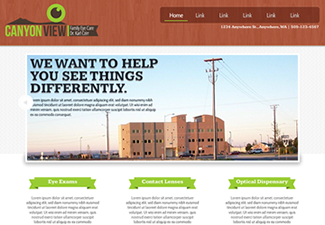
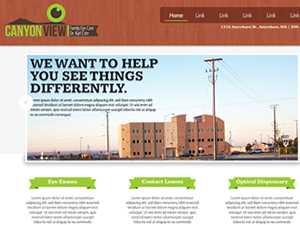
Continually adding wordpress support.

diff --git a/home.php b/home.php
@@ -1,71 +1,25 @@
-<!DOCTYPE html>
-<meta charset="utf-8">
-<meta name="viewport" content="width=device-width" />
-<html>
-  <head>
-    <link rel="stylesheet" href="style.css" title="style.css" type="text/css" media="screen" charset="utf-8">
-    <!--[if lt IE 9]><script src="js/html5.js" charset="utf-8"></script><![endif]-->
-    <script src="js/jquery.js" charset="utf-8"></script>
-    <script src="js/prefixfree.min.js" charset="utf-8"></script>
-    <script src="js/flexslider.js" charset="utf-8"></script>
-    <script src="js/custom.js" charset="utf-8"></script>
-    <title>Canyon View Family Eye Care</title>
-  </head>
-  <body>
-    <div id="page">
-      <section id="header_wrap">
-        <header class="wrapper">
-          <hgroup id="branding">
-            <h1>Canyon View Family Eye Care</h1>
-            <h2>Dr. Karl Czirr</h2>
-            <a id="logo" href="#home"><img src="images/canyonview_logo.png" /></a>
-          </hgroup><!-- /#branding -->
-          <nav>
-            <ul id="access">
-              <li><a href="#">Link</a></li>
-              <li><a href="#">Link</a></li>
-              <li><a href="#">Link</a></li>
-              <li><a href="#">Link</a></li>
-              <li>
-                <a href="#">Link</a>
-                <ul>
-                  <li><a href="#">link</a></li>
-                  <li><a href="#">link</a></li>
-                  <li><a href="#">link</a></li>
-                  <li><a href="#">link</a></li>
-                </ul>
-              </li>
-            </ul><!-- /#access -->
-          </nav>
-          <div id="head_location">
-            <ul>
-              <li><address>1234 Anywhere, WA</address></li>
-              <li><p>509-123-4567</p></li>
-            </ul>
-          </div>
-        </header>
-      </section><!-- /#header_wrap -->
+<?php get_header(); ?>
       <section id="slider" class="subheader">
         <div class="wrapper">
           <div id="flexslider1_wrap">
             <div id="flexslider1" class="flexslider">
               <ul class="slides">
                 <li>
-                  <img src="slides/canyonview_building.jpg"/>
+                  <img src="<?php bloginfo('template_directory'); ?>/slides/canyonview_building.jpg"/>
                   <div class="caption">
                     <h3>We want to help you see things differently</h3>
                     <p>Lorem ipsum dolor sit amet, consectetur adipisicing elit, sed do eiusmod tempor incididunt ut labore et dolore magna aliqua. Ut enim ad minim veniam, quis nostrud exercitation ullamco laboris nisi ut aliquip ex ea commodo consequat. Duis aute irure dolor in reprehenderit in voluptate velit esse cillum dolore eu fugiat nulla pariatur. Excepteur sint occaecat cupidatat non proident, sunt in culpa qui officia deserunt mollit anim id est laborum.</p>
                   </div><!-- /.caption -->
                 </li>
                 <li>
-                  <img src="slides/canyonview_building.jpg"/>
+                  <img src="<?php bloginfo('template_directory'); ?>/slides/canyonview_building.jpg"/>
                   <div class="caption">
                     <h3>We do stuff and it helps people.</h3>
                     <p>Lorem ipsum dolor sit amet, consectetur adipisicing elit, sed do eiusmod tempor incididunt ut labore et dolore magna aliqua. Ut enim ad minim veniam, quis nostrud exercitation ullamco laboris nisi ut aliquip ex ea commodo consequat. Duis aute irure dolor in reprehenderit in voluptate velit esse cillum dolore eu fugiat nulla pariatur. Excepteur sint occaecat cupidatat non proident, sunt in culpa qui officia deserunt mollit anim id est laborum.</p>
                   </div><!-- /.caption -->
                 </li>
                 <li>
-                  <img src="slides/canyonview_building.jpg"/>
+                  <img src="<?php bloginfo('template_directory'); ?>/slides/canyonview_building.jpg"/>
                   <div class="caption">
                     <h3>And some other things about how we do it.</h3>
                     <p>Lorem ipsum dolor sit amet, consectetur adipisicing elit, sed do eiusmod tempor incididunt ut labore et dolore magna aliqua. Ut enim ad minim veniam, quis nostrud exercitation ullamco laboris nisi ut aliquip ex ea commodo consequat. Duis aute irure dolor in reprehenderit in voluptate velit esse cillum dolore eu fugiat nulla pariatur. Excepteur sint occaecat cupidatat non proident, sunt in culpa qui officia deserunt mollit anim id est laborum.</p>
@@ -113,26 +67,4 @@
           </div>
         </div><!-- ./wrapper -->
       </section><!-- /.content, /#front_page -->
-      <footer>
-        <div class="wrapper">
-          <div id="location">
-            <h3>Our Location</h3>
-            <address>1234 N. Avenue, Anywhere, WA 12345</address>
-            <p>
-              <strong>Monday-Wednesday-Thursday:</strong>9am-5pm<br>
-              <strong>Tuesday:</strong>9am-6pm<br>
-              <strong>Friday:</strong>9am-2pm<br>
-            </p>
-          </div><!-- /#location -->
-          <div id="about">
-            <h3>About Us</h3>
-            <p>Lorem ipsum dolor sit amet, consectetur adipisicing elit, sed do eiusmod tempor incididunt ut labore et dolore magna aliqua. Ut enim ad minim veniam, quis nostrud exercitation ullamco laboris nisi ut aliquip ex ea commodo consequat. Duis aute irure dolor in reprehenderit in voluptate velit esse cillum dolore eu fugiat nulla pariatur. Excepteur sint occaecat cupidatat non proident, sunt in culpa qui officia deserunt mollit anim id est laborum.</p>
-          </div><!-- /#about -->
-          <div id="credits">
-            <p>&copy;2012 Canyon View Family Eye Care.  All Rights Reserved.</p>
-          </div><!-- /#credits -->
-        </div>
-      </footer>
-    </div><!-- /#page -->
-  </body>
-</html>
+<?php get_footer(); ?>

diff --git a/header.php b/header.php
@@ -1,15 +1,36 @@
 <!DOCTYPE html>
-<meta charset="utf-8">
+<meta charset="<?php bloginfo('charset'); ?>">
 <meta name="viewport" content="width=device-width" />
 <html>
   <head>
-    <link rel="stylesheet" href="style.css" title="style.css" type="text/css" media="screen" charset="utf-8">
+    <link rel="stylesheet" type="text/css" media="all" href="<?php bloginfo( 'stylesheet_url' ); ?>" />
     <!--[if lt IE 9]><script src="js/html5.js" charset="utf-8"></script><![endif]-->
-    <script src="js/jquery.js" charset="utf-8"></script>
-    <script src="js/prefixfree.min.js" charset="utf-8"></script>
-    <script src="js/flexslider.js" charset="utf-8"></script>
-    <script src="js/custom.js" charset="utf-8"></script>
-    <title>Canyon View Family Eye Care</title>
+    <script src="<?php bloginfo( 'template_directory' ); ?>/js/jquery.js" charset="utf-8"></script>
+    <script src="<?php bloginfo( 'template_directory' ); ?>/js/prefixfree.min.js" charset="utf-8"></script>
+    <script src="<?php bloginfo( 'template_directory' ); ?>/js/flexslider.js" charset="utf-8"></script>
+    <script src="<?php bloginfo( 'template_directory' ); ?>/js/custom.js" charset="utf-8"></script>
+    <title><?php
+  	/*
+  	 * Print the <title> tag based on what is being viewed.
+  	 */
+  	global $page, $paged;
+  
+  	wp_title( '|', true, 'right' );
+  
+  	// Add the blog name.
+  	bloginfo( 'name' );
+  
+  	// Add the blog description for the home/front page.
+  	$site_description = get_bloginfo( 'description', 'display' );
+  	if ( $site_description && ( is_home() || is_front_page() ) )
+  		echo " | $site_description";
+  
+  	// Add a page number if necessary:
+  	if ( $paged >= 2 || $page >= 2 )
+  		echo ' | ' . sprintf( __( 'Page %s', 'toolbox' ), max( $paged, $page ) );
+  
+  	?></title>
+  <?php wp_head(); ?>
   </head>
   <body>
     <div id="page">
@@ -18,7 +39,7 @@
           <hgroup id="branding">
             <h1>Canyon View Family Eye Care</h1>
             <h2>Dr. Karl Czirr</h2>
-            <a id="logo" href="#home"><img src="images/canyonview_logo.png" /></a>
+            <a id="logo" href="#home"><img src="<?php bloginfo('template_directory'); ?>/images/canyonview_logo.png" /></a>
           </hgroup><!-- /#branding -->
           <nav>
             <ul id="access">

diff --git a/footer.php b/footer.php
@@ -1,0 +1,24 @@
+      <footer>
+        <div class="wrapper">
+          <div id="location">
+            <h3>Our Location</h3>
+            <address>1234 N. Avenue, Anywhere, WA 12345</address>
+            <p>
+              <strong>Monday-Wednesday-Thursday:</strong>9am-5pm<br>
+              <strong>Tuesday:</strong>9am-6pm<br>
+              <strong>Friday:</strong>9am-2pm<br>
+            </p>
+          </div><!-- /#location -->
+          <div id="about">
+            <h3>About Us</h3>
+            <p>Lorem ipsum dolor sit amet, consectetur adipisicing elit, sed do eiusmod tempor incididunt ut labore et dolore magna aliqua. Ut enim ad minim veniam, quis nostrud exercitation ullamco laboris nisi ut aliquip ex ea commodo consequat. Duis aute irure dolor in reprehenderit in voluptate velit esse cillum dolore eu fugiat nulla pariatur. Excepteur sint occaecat cupidatat non proident, sunt in culpa qui officia deserunt mollit anim id est laborum.</p>
+          </div><!-- /#about -->
+          <div id="credits">
+            <p>&copy;2012 Canyon View Family Eye Care.  All Rights Reserved.</p>
+          </div><!-- /#credits -->
+        </div>
+      </footer>
+    </div><!-- /#page -->
+    <?php wp_footer(); ?>
+  </body>
+</html>

diff --git a/index.php b/index.php
@@ -1,3 +1,4 @@
+<?php get_header(); ?>
       <section class="subheader"></section>
       <section class="content">
         <div class="wrapper">
@@ -35,3 +36,4 @@
           </div><!-- /#secondary -->
         </div><!-- ./wrapper -->
       </section><!-- /.content, /#front_page -->
+<?php get_footer(); ?>
